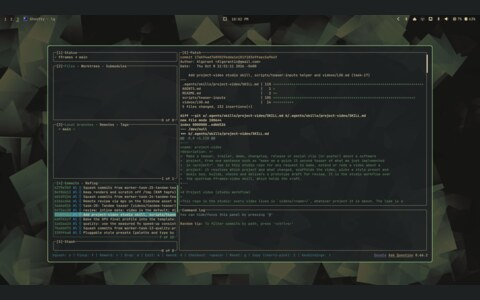
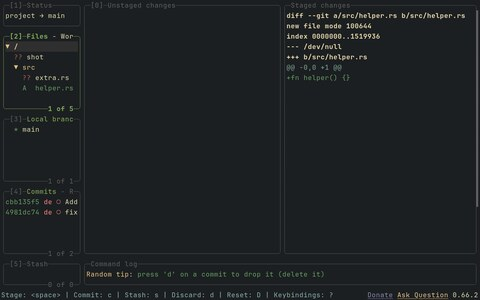
His retake for lazygit, with the tape

Changed region(s): [[0.0, 0.0, 1.0, 1.0], [0.9688, 0.87, 1.0, 0.9]]

diff --git a/apps/lazygit/README.md b/apps/lazygit/README.md
@@ -2,7 +2,7 @@
 
 <table>
   <tr>
-    <td align="center"><a href="screenshot.png"><img src="thumbs/1.jpg" width="260"></a><br><sub>before the port: his first look</sub></td>
+    <td align="center"><a href="screenshot.png"><img src="thumbs/1.jpg" width="260"></a><br><sub>a staged change, an untracked one, and the log</sub></td>
   </tr>
 </table>
 
@@ -16,3 +16,5 @@
 ## notes
 
 Fern marks the active panel, ashbronze the idle ones, and the lighter background sits under the selected line. Staged and unstaged changes use oxblood's text tint, which is the only red in the palette that stays readable on `#1d2021`.
+
+Two accents are set but not in frame: cherry-picked commits (teal) and the search prompt's border (goldenrod), which need a marked commit and an open search.
